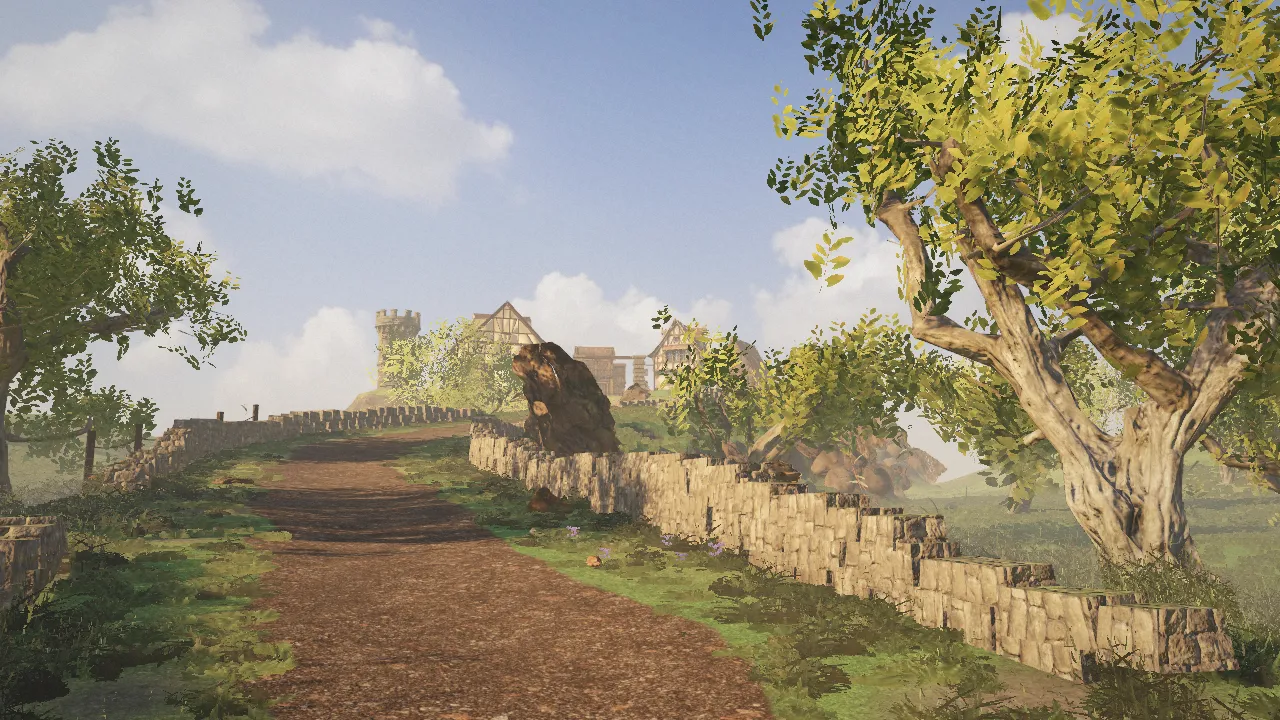
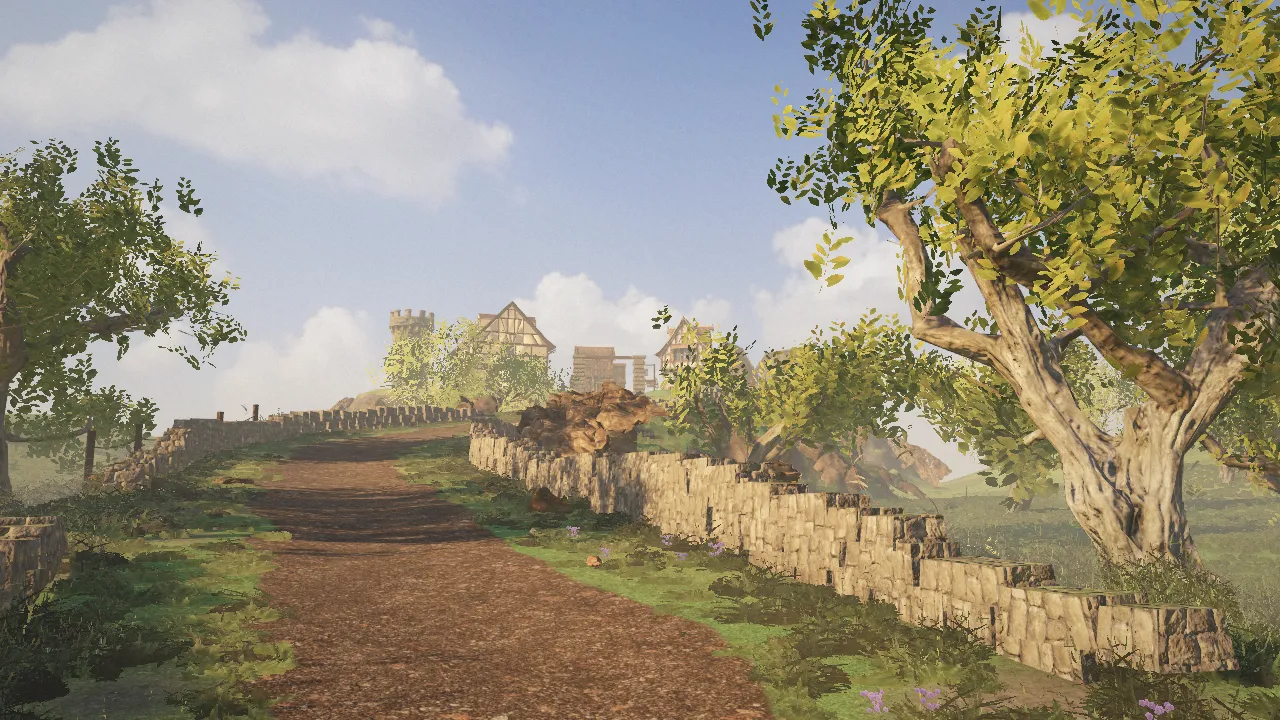
wip(prototipo): edificios de Sketchfab en la Aldea, capturas y créditos
Claude-Session: https://claude.ai/code/session_01SV5CVTrG5RUoqQw9oYxYaZ

diff --git a/prototipo/exterior/src/aldea.js b/prototipo/exterior/src/aldea.js
@@ -529,16 +529,16 @@ tNd = normalize(mix(normalize(Nd), nW, wK * 0.9));`)
     }
     function buildModelos() {
       // aldea sobre la meseta (z < -46, x ∈ [-22, 22]); calle central (x ≈ 0) que acaba en la casa rústica; plazuela con pozo junto a la calle
-      modelo('torre_piedra', -22.5, -56.5, 0.55);                              // hito en el borde de la meseta, puerta hacia la plaza
-      const C = modelo('casa_entramado_c', -12, -54, 0.28);                    // casa grande, a la izquierda de la calle
+      modelo('torre_piedra', -21, -56.5, 0.55);                                // hito en el borde de la meseta, puerta hacia la plaza
+      const C = modelo('casa_entramado_c', -11.5, -54, 0.28);                  // casa grande, a la izquierda de la calle
       modelo('casa_rustica', -0.5, -60, 0.04);                                 // cierra la calle
-      const U = modelo('casa_tudor', 8.4, -53.5, -0.42);                       // derecha de la calle
-      modelo('casa_piedra', 15.8, -58.5, -0.55);                               // detrás, más a la derecha
-      const A = modelo('granero', 22, -52, -1.0, { trod: 3 });                // hacia el borde de la meseta
-      const W = modelo('pozo_piedra', -3.6, -53, 0.3, { nodoor: true });       // plazuela
-      if (W) { trodStamp(-3.6, -53, 3.6, 0.95); trodStamp(-1.0, -52, 2.6, 0.7); stamp(-3.6, -53, 2.2, 0.35, 0.55); }
-      const K = modelo('carro', 3.4, -49.5, 1.4, { nodoor: true, contact: false });   // junto al camino, a la izquierda de la casa Tudor
-      if (K) trodStamp(3.4, -49.5, 2.6, 0.8);
+      const U = modelo('casa_tudor', 10.0, -52.8, -0.35);                       // derecha de la calle
+      modelo('casa_piedra', 15.4, -60.4, -0.5);                                // detrás, más a la derecha
+      const A = modelo('granero', 19.8, -53.3, -0.9, { trod: 3 });             // hacia el borde de la meseta
+      const W = modelo('pozo_piedra', -2.9, -53.2, 0.3, { nodoor: true });     // plazuela
+      if (W) { trodStamp(-2.9, -53.2, 3.6, 0.95); trodStamp(-0.6, -51.6, 2.6, 0.7); stamp(-2.9, -53.2, 2.2, 0.35, 0.55); }
+      const K = modelo('carro', 5.4, -46.8, 1.5, { nodoor: true, contact: false });   // junto al camino, a la izquierda de la casa Tudor
+      if (K) trodStamp(5.4, -46.8, 2.6, 0.8);
       lenaEn(C, '+x', 0.5, 1.8, 0.95); lenaEn(U, '-x', -0.3, 1.4, 0.8); lenaEn(A, '-x', 0.2, 1.8, 0.9);
       finModelos();
     }
@@ -780,8 +780,8 @@ tNd = normalize(mix(normalize(Nd), nW, wK * 0.9));`)
       };
       const bar = place('barriles', /barrel0[12]$/, -4.6, -44.2, 0.4, 1, -0.02); ctx.addSeg(-4.6, -44.2, -4.6, -44.2, 0.5); stamp(-4.6, -44.2, 1.4, 0.5, 0.4);
       place('barriles', /barrel01$/, -6.6, -49.6, 1.0, 1, 0); ctx.addSeg(-6.6, -49.6, -6.6, -49.6, 0.4);
-      place('cajon', null, 3.7, -44.2, 0.3, 1.2, 0); ctx.addSeg(3.7, -44.2, 3.7, -44.2, 0.6); stamp(3.7, -44.2, 1.2, 0.5, 0.3);   // junto al camino, bajo el farol (la puerta de la casa Tudor queda libre)
-      place('cubo', null, 4.5, -43.7, 0.8, 1.2, 0.0);
+      place('cajon', null, 8.3, -44.2, 0.3, 1.2, 0); ctx.addSeg(8.3, -44.2, 8.3, -44.2, 0.6); stamp(8.3, -44.2, 1.2, 0.5, 0.3);   // junto al camino, bajo el farol (la puerta de la casa Tudor queda libre)
+      place('cubo', null, 9.1, -43.8, 0.8, 1.2, 0.0);
       pointAt(30, PA); const lx = PA.x + 6.6, lz = PA.z; place('tronco_caido', null, lx, lz, 0.5, 1, 0.0); ctx.addSeg(lx - 0.9, lz - 0.4, lx + 0.9, lz + 0.4, 0.45); stamp(lx, lz, 2, 0.5, 0.3);
       pointAt(62, PA); place('tocon', null, PA.x - 6.8, PA.z, 0.2, 1, 0.0); ctx.addSeg(PA.x - 6.8, PA.z, PA.x - 6.8, PA.z, 0.55); stamp(PA.x - 6.8, PA.z, 1.2, 0.5, 0.3);
       // farol colgado de un poste junto a la puerta

diff --git a/prototipo/pruebas/exterior.js b/prototipo/pruebas/exterior.js
@@ -86,7 +86,7 @@ const info = (p, soloEscena) => p.evaluate((solo) => {   // renderer.info de un 
   const mod = await p.evaluate(() => { const A = window.__GAME__.aldea; return { proc: A.procedural, m: A.modelos, atlas: A.S.atlas, h: Object.fromEntries(Object.entries(A.modelos).map(([k, v]) => [k, A.heightAt(v.x, v.z)])) }; });
   const ESCALA = { casa_entramado_c: 1.16, casa_tudor: 1.03, casa_piedra: 1.04, casa_rustica: 0.95, granero: 0.92, torre_piedra: 0.88, pozo_piedra: 1.0, carro: 0.9 };
   ok(!mod.proc && Object.keys(mod.m).length === 8 && Object.keys(ESCALA).every((k) => mod.m[k] && mod.m[k].s === ESCALA[k]), 'edificios: 8 modelos GLB (casa_entramado_c, tudor, piedra, rustica, granero, torre, pozo, carro) con las escalas fijadas: ' + JSON.stringify(Object.fromEntries(Object.entries(mod.m).map(([k, v]) => [k, v.s + ' x ' + v.alto + ' m']))));
-  ok(Object.values(mod.m).every((v) => v.y0 <= v.hMax + 1e-6 && v.y0 - v.falda <= v.hMin + 0.1), 'edificios asentados: la base nunca queda por encima del punto más alto del terreno bajo la huella y la falda llega por debajo del más bajo (no flotan)');
+  ok(Object.values(mod.m).every((v) => v.y0 <= v.hMax + 1e-6 && v.y0 - v.falda <= v.hMin + 0.45), 'edificios asentados: la base nunca queda por encima del punto más alto del terreno bajo la huella y la falda (o ≤ 0,45 m de holgura bajo ruedas) llega al más bajo: no flotan');
   ok(mod.atlas && mod.atlas.tiles >= 20 && mod.atlas.h <= 4096, 'atlas de edificios: ' + JSON.stringify(mod.atlas));
   await p.keyboard.press('KeyP'); await p.waitForTimeout(400);
   const cr = await p.evaluate(() => { const b = document.querySelector('#pmCred'); if (!b || b.closest('li').hidden) return null; b.click(); const l = document.querySelector('#pmCredList'); return { n: l.querySelectorAll('a[href*="sketchfab.com"]').length, lic: l.querySelectorAll('a[href*="creativecommons.org/licenses/by/4.0"]').length, txt: l.textContent, vis: !document.querySelector('#pmCredV').hidden }; });
